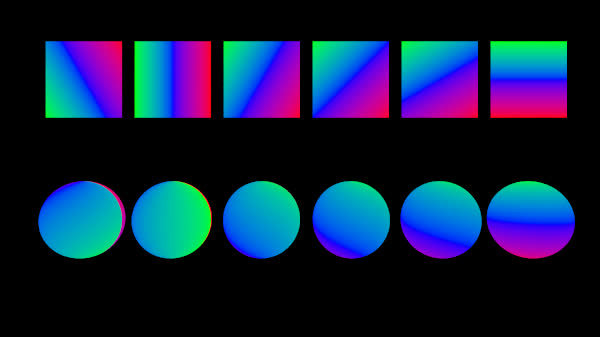
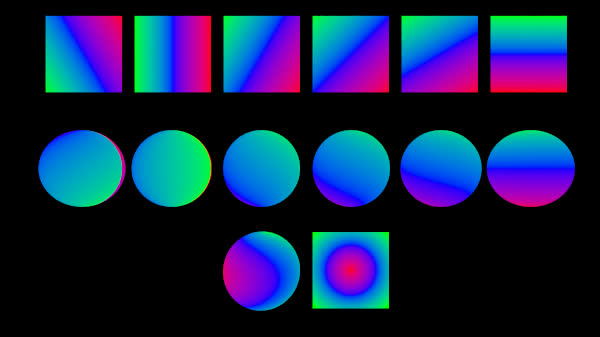
adding radial gradient texture

diff --git a/rt_headers/texture.h b/rt_headers/texture.h
@@ -140,4 +140,42 @@ class linear_gradient_texture: public texture{
         }
 };
 
+class radial_gradient_texture: public texture{
+    private:
+        std::vector<color> colors;
+    public:
+        radial_gradient_texture(const color& color_a, const color& color_b){
+            this->colors.push_back(color_a);
+            this->colors.push_back(color_b);
+            this->colors.push_back(color_b);
+        }
+        radial_gradient_texture(const std::vector<color>& colors){
+            this->colors=colors;
+            this->colors.push_back(colors[colors.size()-1]);
+        }
+
+        color value(double u, double v, const point3& p) const override{
+            v-=0.5;
+            u-=0.5;
+            v=hypot(v,u);
+            u=atan2(v,u);
+            double angled=v;
+            // angled+=0.5;
+
+            double spacing=1.0/(colors.size()-1);
+            double start_idx=0;
+            double end_idx=spacing;
+            for(int i=0;i<colors.size()-1;i++){
+                if(angled>=start_idx && angled<=end_idx){
+                    angled=(angled-start_idx)/(end_idx-start_idx);
+                    return colors[i+1]*angled+(1-angled)*colors[i];
+                }
+                start_idx=end_idx;
+                end_idx+=spacing;
+            }
+            
+            return color();
+        }
+};
+
 #endif

diff --git a/gradient_test.cpp b/gradient_test.cpp
@@ -18,9 +18,13 @@ int main(){
     
     for(int i=0;i<6;i++){
         std::shared_ptr<texture> linear_grad=std::make_shared<linear_gradient_texture>(grad_colors,angles[i]);
-        world.add(std::make_shared<quad>(vec3(35*(i-3),20,0),vec3(30,0,0),vec3(0,30,0),std::make_shared<diffuse_light>(linear_grad)));
-        world.add(std::make_shared<sphere>(point3(35*(i-3)+15,-20,0),15,std::make_shared<diffuse_light>(linear_grad)));
+        world.add(std::make_shared<quad>(vec3(35*(i-3),30,0),vec3(30,0,0),vec3(0,30,0),std::make_shared<diffuse_light>(linear_grad)));
+        world.add(std::make_shared<sphere>(point3(35*(i-3)+15,0,0),15,std::make_shared<diffuse_light>(linear_grad)));
     }
+    
+    std::shared_ptr<texture> radial_grad=std::make_shared<radial_gradient_texture>(grad_colors);
+    world.add(std::make_shared<quad>(vec3(-35,-55,0),vec3(30,0,0),vec3(0,30,0),std::make_shared<diffuse_light>(radial_grad)));
+    world.add(std::make_shared<sphere>(point3(15,-40,0),15,std::make_shared<diffuse_light>(radial_grad)));
 
     world=hittable_list(std::make_shared<bvh_node>(world));
 
